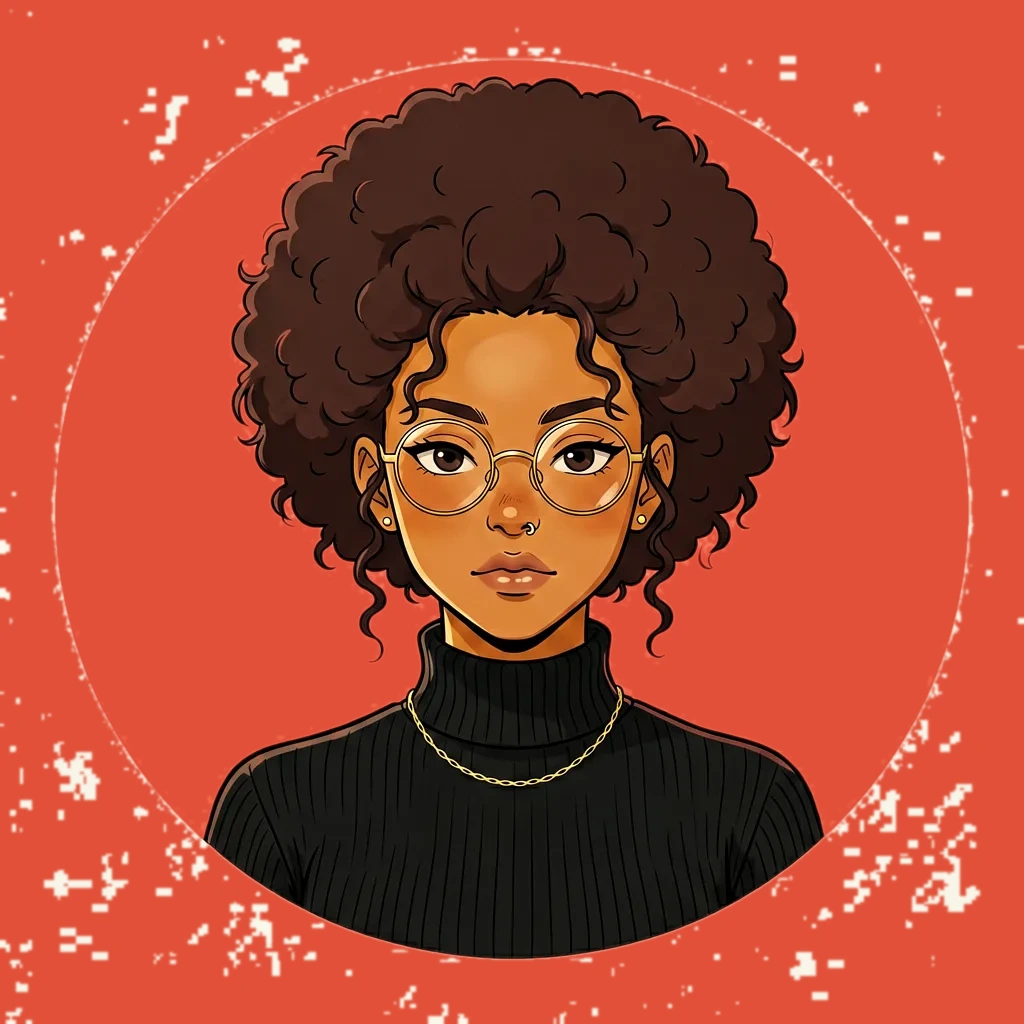
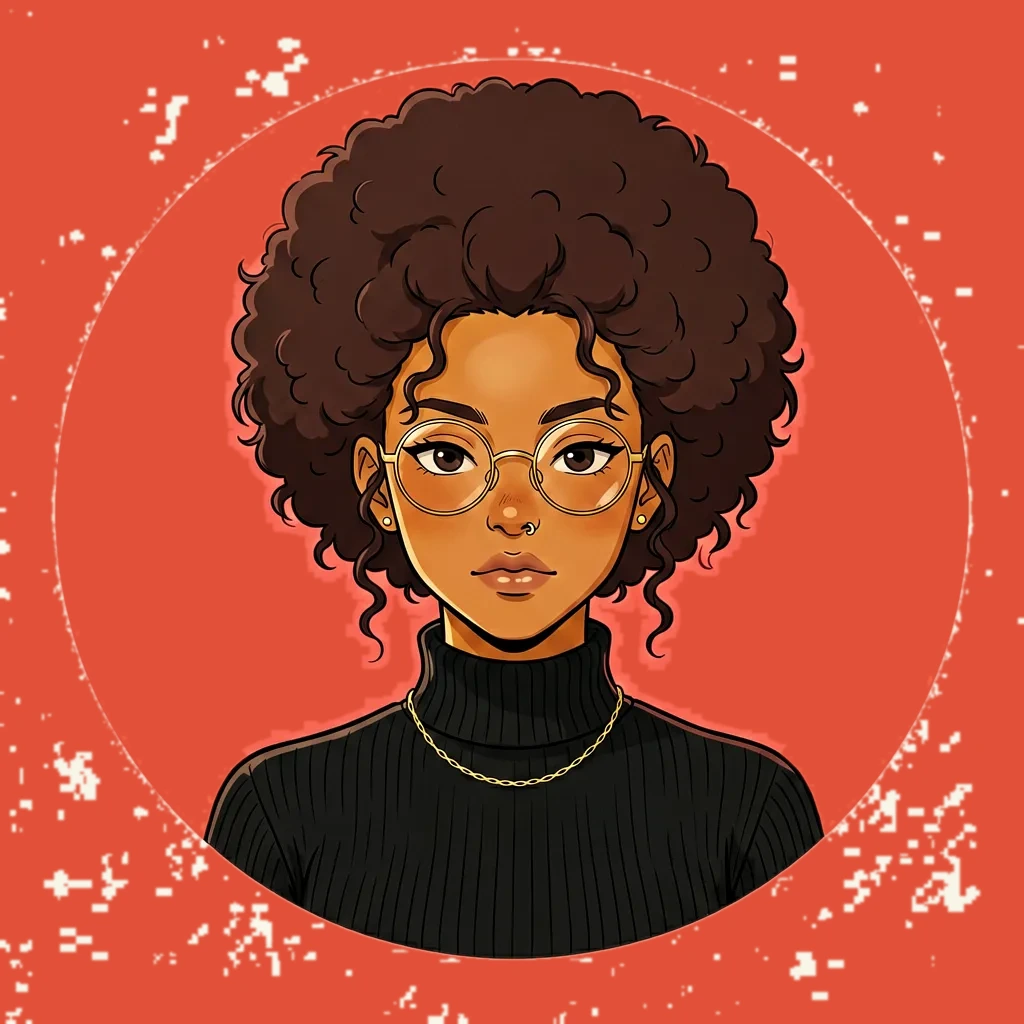
Architect: mask dilation catches hair edges, per-face scale prevents clipping

diff --git a/index.html b/index.html
@@ -95,10 +95,10 @@
   /* All persona portraits sit on coral */
   #off-duty .portrait, #architect .portrait { background: var(--red); }
 
-  /* Architect renders are framed wider than Off-Duty — scale per-face
-     so each subject fills the circle without clipping the hair.
-     V3 (afro) needs less zoom because the hair is taller. */
+  /* Architect renders: per-face scale to fit the circle without clipping.
+     V2 (platinum pixie) has tall hair tips, V3 (afro) is tallest. */
   #architect .portrait img { transform: scale(1.30); transform-origin: center; }
+  #architect .card:nth-child(2) .portrait img { transform: scale(1.20); }
   #architect .card:nth-child(3) .portrait img { transform: scale(1.15); }
 
   .card h3 {

diff --git a/renders/recolor_bg.py b/renders/recolor_bg.py
@@ -48,6 +48,13 @@ def recolor(infile, outfile):
 
     subject_mask = is_dark | is_warm_subject | is_platinum | protected_inner
 
+    # DILATE the subject mask by ~6 pixels to catch hair-edge pixels that
+    # sit right next to platinum but whose color got shifted by the original
+    # coral bleeding in (turns coral-tinted but is really hair).
+    mask_pil = Image.fromarray(subject_mask.astype(np.uint8) * 255, mode='L')
+    dilated = mask_pil.filter(ImageFilter.MaxFilter(size=13))
+    subject_mask = np.array(dilated) > 128
+
     # Outer-ring cleanup — spare platinum hair which can extend into outer ring
     outer_ring = dist > 360
     outer_haze = outer_ring & (L > 0.55) & ~is_warm_subject & ~is_platinum
